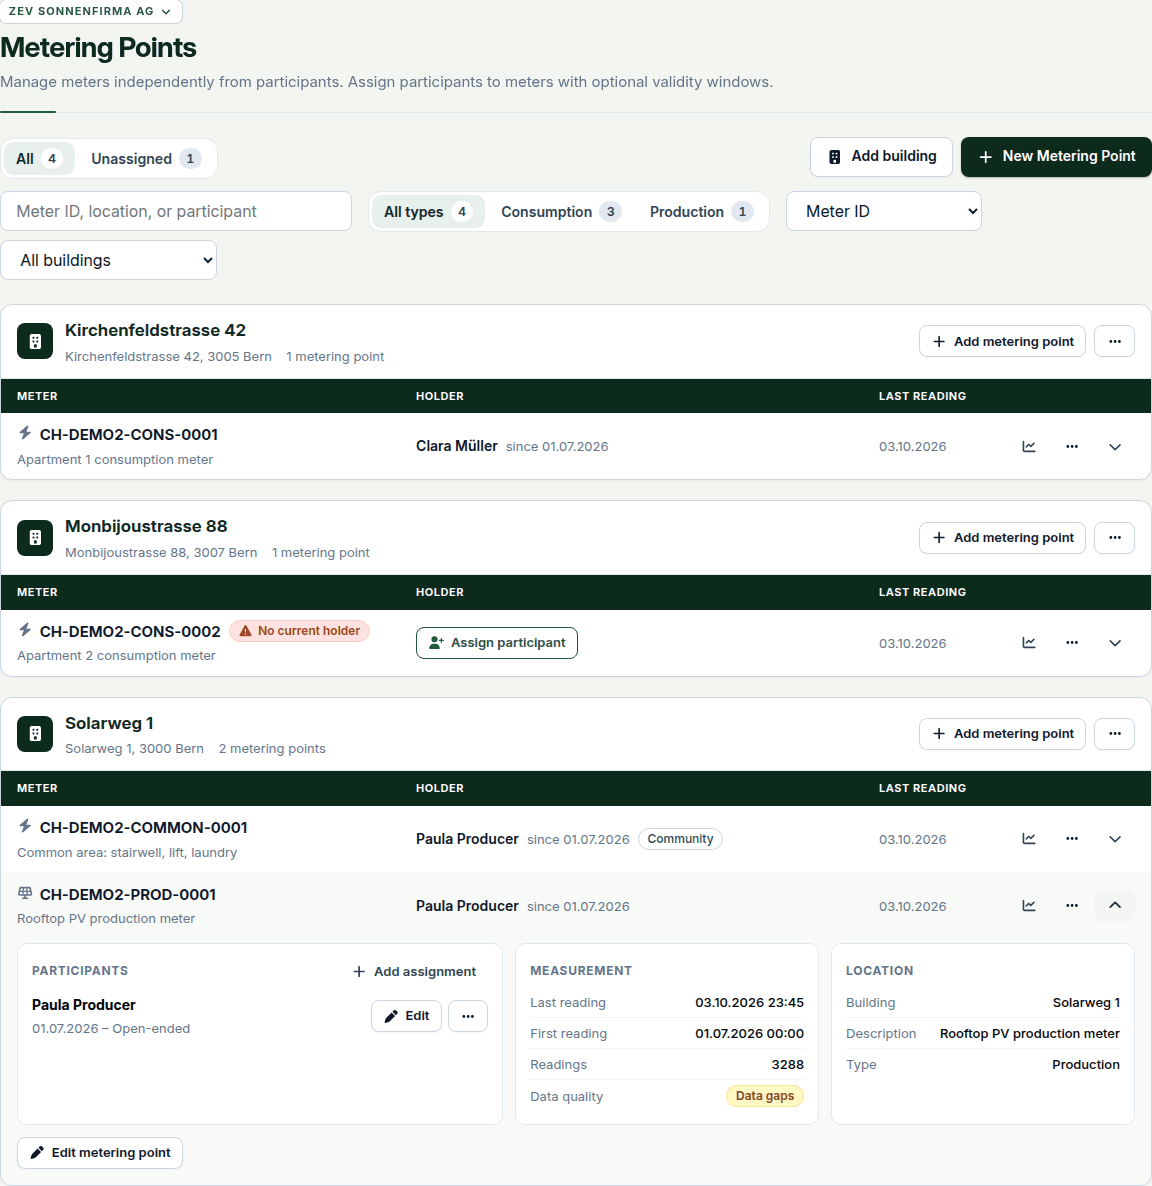
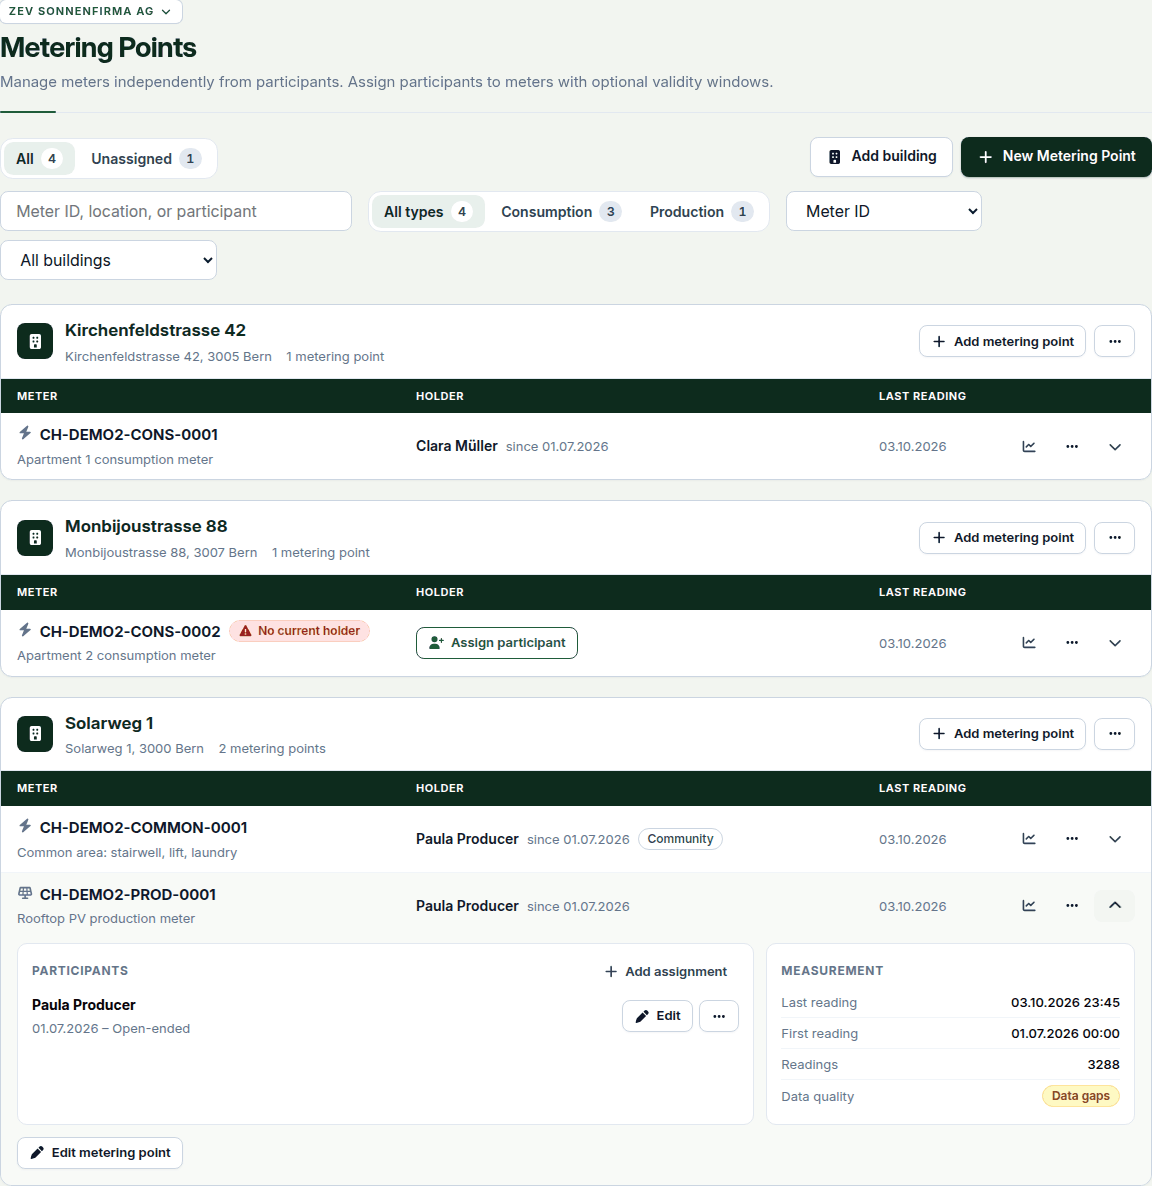
refactor(metering-points): drop the Location card from a meter's details
The building is in the group header, the location under the meter ID, the
type is the icon before it and behind-the-meter is a badge on the row, so the
card only repeated what the row already shows. The Participants card takes the
width instead, with the Measurement card beside it.

Changed region(s): [[0.4688, 0.8111, 0.7812, 0.9359], [0.8125, 0.8423, 0.9688, 0.9359], [0.3125, 0.8111, 0.4062, 0.8735]]

diff --git a/frontend/src/features/meteringPoints/MeteringPointRow.tsx b/frontend/src/features/meteringPoints/MeteringPointRow.tsx
@@ -403,32 +403,6 @@ export function MeteringPointRow({
                 </div>
               )}
             </section>
-
-            <section className="metering-detail-card">
-              <header><h4>{t('pages.meteringPoints.detail.location')}</h4></header>
-              <dl className="metering-detail-facts">
-                {point.building_name && (
-                  <div>
-                    <dt>{t('pages.meteringPoints.detail.building')}</dt>
-                    <dd>{point.building_name}</dd>
-                  </div>
-                )}
-                <div>
-                  <dt>{t('pages.meteringPoints.detail.description')}</dt>
-                  <dd>{location || <span className="muted">{t('pages.meteringPoints.noLocation')}</span>}</dd>
-                </div>
-                <div>
-                  <dt>{t('pages.meteringPoints.detail.type')}</dt>
-                  <dd>{typeLabel}</dd>
-                </div>
-                {point.has_behind_meter_generation && (
-                  <div>
-                    <dt>{t('pages.meteringPoints.detail.generation')}</dt>
-                    <dd><BehindMeterBadge /></dd>
-                  </div>
-                )}
-              </dl>
-            </section>
           </div>
           {canWrite && (
             <div className="metering-detail-actions actions-row actions-row-wrap">

diff --git a/frontend/tests/metering-points-list.test.ts b/frontend/tests/metering-points-list.test.ts
@@ -150,7 +150,7 @@ describe('MeteringPointsList', () => {
         expect(view.querySelector('.metering-point-detail')).toBeNull()
     })
 
-    it('opens a row in place with its participants, measurement and location, and closes it again', () => {
+    it('opens a row in place with its participants and measurement, and closes it again', () => {
         const view = render({ points })
         const toggle = view.querySelector<HTMLButtonElement>('.metering-point-expand')!
         expect(toggle.getAttribute('aria-expanded')).toBe('false')
@@ -159,7 +159,7 @@ describe('MeteringPointsList', () => {
         const detail = view.querySelector('.metering-point-detail')!
         expect(detail.textContent).toContain('pages.meteringPoints.detail.participants')
         expect(detail.textContent).toContain('pages.meteringPoints.detail.measurement')
-        expect(detail.textContent).toContain('pages.meteringPoints.detail.location')
+        expect(detail.textContent).not.toContain('pages.meteringPoints.detail.location')
         expect(detail.textContent).toContain('Anna Consumer')
         act(() => toggle.click())
         expect(view.querySelector('.metering-point-detail')).toBeNull()

diff --git a/frontend/src/index.css b/frontend/src/index.css
@@ -3124,12 +3124,13 @@ input.recurrence-chip-input {
 
 .metering-detail-grid {
   display: grid;
-  grid-template-columns: repeat(2, minmax(0, 1fr));
+  grid-template-columns: minmax(0, 28rem);
   gap: 0.75rem;
 }
 
+/* The assignments take the width; the measurement is a narrow column beside them. */
 .metering-detail-grid-participants {
-  grid-template-columns: minmax(0, 1.6fr) repeat(2, minmax(0, 1fr));
+  grid-template-columns: minmax(0, 2fr) minmax(0, 1fr);
 }
 
 .metering-detail-card {

diff --git a/frontend/src/i18n/locales/fr.ts b/frontend/src/i18n/locales/fr.ts
@@ -1958,11 +1958,6 @@ export const fr = {
                 firstReading: 'Premier relevé',
                 readings: 'Relevés',
                 dataQuality: 'Qualité des données',
-                location: 'Emplacement',
-                building: 'Bâtiment',
-                description: 'Description',
-                type: 'Type',
-                generation: 'Production',
                 editMeteringPoint: 'Modifier le point de mesure',
             },
             buildings: {

diff --git a/frontend/src/i18n/locales/it.ts b/frontend/src/i18n/locales/it.ts
@@ -1958,11 +1958,6 @@ export const it = {
                 firstReading: 'Prima lettura',
                 readings: 'Letture',
                 dataQuality: 'Qualità dei dati',
-                location: 'Posizione',
-                building: 'Edificio',
-                description: 'Descrizione',
-                type: 'Tipo',
-                generation: 'Produzione',
                 editMeteringPoint: 'Modifica punto di misura',
             },
             buildings: {

diff --git a/frontend/src/i18n/locales/de.ts b/frontend/src/i18n/locales/de.ts
@@ -1958,11 +1958,6 @@ export const de = {
                 firstReading: 'Erster Messwert',
                 readings: 'Messwerte',
                 dataQuality: 'Datenqualität',
-                location: 'Standort',
-                building: 'Gebäude',
-                description: 'Beschreibung',
-                type: 'Typ',
-                generation: 'Erzeugung',
                 editMeteringPoint: 'Zählpunkt bearbeiten',
             },
             buildings: {

diff --git a/frontend/src/i18n/locales/en.ts b/frontend/src/i18n/locales/en.ts
@@ -1969,11 +1969,6 @@ export const en = {
                 firstReading: 'First reading',
                 readings: 'Readings',
                 dataQuality: 'Data quality',
-                location: 'Location',
-                building: 'Building',
-                description: 'Description',
-                type: 'Type',
-                generation: 'Generation',
                 editMeteringPoint: 'Edit metering point',
             },
             buildings: {

diff --git a/docs/specs/2026-03-metering-point-management.md b/docs/specs/2026-03-metering-point-management.md
@@ -558,7 +558,7 @@ python -m pytest -q
 - Assignment date-range picker with overlap/containment feedback
 - List filtering: one view tab (all / active / inactive / unassigned, `MeteringPointView` in the `view` query param, read by `readMeteringPointView`; `getScopedAndFilteredMeteringPoints` takes it as `view`) plus search and meter-type tabs (SPEC-2026-08-ui-redesign-pdf-style §15.3 filter tabs)
 - Buildings on the metering points page (SPEC-2026-10-buildings-and-sites §7.3): "Add building" next to "New Metering Point"; the meters are grouped by building, one building or several (`groupMeteringPointsByBuilding`, ordered by name, each group a sheet headed by the same `BuildingHeader` with add-meter and a menu with edit / delete; a role without buildings gets one plain list); with a building filter and a building select in the form (`tests/buildings.test.ts`; the full test plan is in SPEC-2026-10-buildings-and-sites §11)
-- The list rows (SPEC-2026-08-ui-redesign-pdf-style §15.4): `MeteringPointsList` renders `MeteringPointRow`s: the meter ID with badges for the unusual only and the meter type as a tooltip icon, holder, last reading and a quiet action cluster, opening in place to Participants / Measurement / Location; "Assign participant" is the one inline action, on an active meter nobody holds today. A sort select (`sort` query param: meter ID (default), location, oldest reading first) orders the list (`sortMeteringPoints`; `tests/metering-points-list.test.ts`)
+- The list rows (SPEC-2026-08-ui-redesign-pdf-style §15.4): `MeteringPointsList` renders `MeteringPointRow`s: the meter ID with badges for the unusual only and the meter type as a tooltip icon, holder, last reading and a quiet action cluster, opening in place to Participants / Measurement; "Assign participant" is the one inline action, on an active meter nobody holds today. A sort select (`sort` query param: meter ID (default), location, oldest reading first) orders the list (`sortMeteringPoints`; `tests/metering-points-list.test.ts`)
 - Build and type checks: `npm run build`
 
 ### Manual verification

diff --git a/docs/specs/2026-08-ui-redesign-pdf-style.md b/docs/specs/2026-08-ui-redesign-pdf-style.md
@@ -1160,13 +1160,14 @@ contracts are unchanged.
     action inline in the holder column: **Assign participant**
     (`button-primary button-outline`). Neither a row nor the header is tinted. The row opens on a click anywhere outside its controls, except one that ends a
     text selection (copying the meter ID).
-  - **Details** (`.metering-point-detail`, three `.metering-detail-card`s;
-    two without the Participants card for a role that has no assignment data):
-    Participants (every assignment, current first, with state badge, dates,
-    Edit and a Remove menu, and "Add assignment"), Measurement (last and
-    first reading, reading count, data quality link with the health badge, and
-    the supplementary source chip unless it already sits on the row) and
-    Location (building, description, type, behind-the-meter).
+  - **Details** (`.metering-point-detail`, two `.metering-detail-card`s, the
+    assignments twice as wide as the measurement; the Measurement card alone for a
+    role that has no assignment data): Participants (every assignment, current
+    first, with state badge, dates, Edit and a Remove menu, and "Add
+    assignment") and Measurement (last and first reading, reading count, data
+    quality link with the health badge, and the supplementary source chip unless
+    it already sits on the row). The building, the location, the type and
+    behind-the-meter are not repeated: the header, the row and its badges show them.
   - **Sort** (`MeteringPointSort` in the `sort` query param, `readMeteringPointSort`,
     `sortMeteringPoints`; not cleared by "Clear filters"): meter ID (default,
     numbers by value), location (unset last) and oldest reading first (a meter that

diff --git a/docs/user-guide/04-metering-points.md b/docs/user-guide/04-metering-points.md
@@ -288,8 +288,7 @@ Click a row, or the arrow at its end, to open its details in place:
   based on the last 30 complete days up to yesterday); click it to open the
   metering point's data-quality view. A connected energy data source shows its
   status here too.
-- **Location** — building, location within the building, type and whether
-  generation sits behind the meter.
+
 
 ## Meter Maintenance
 
